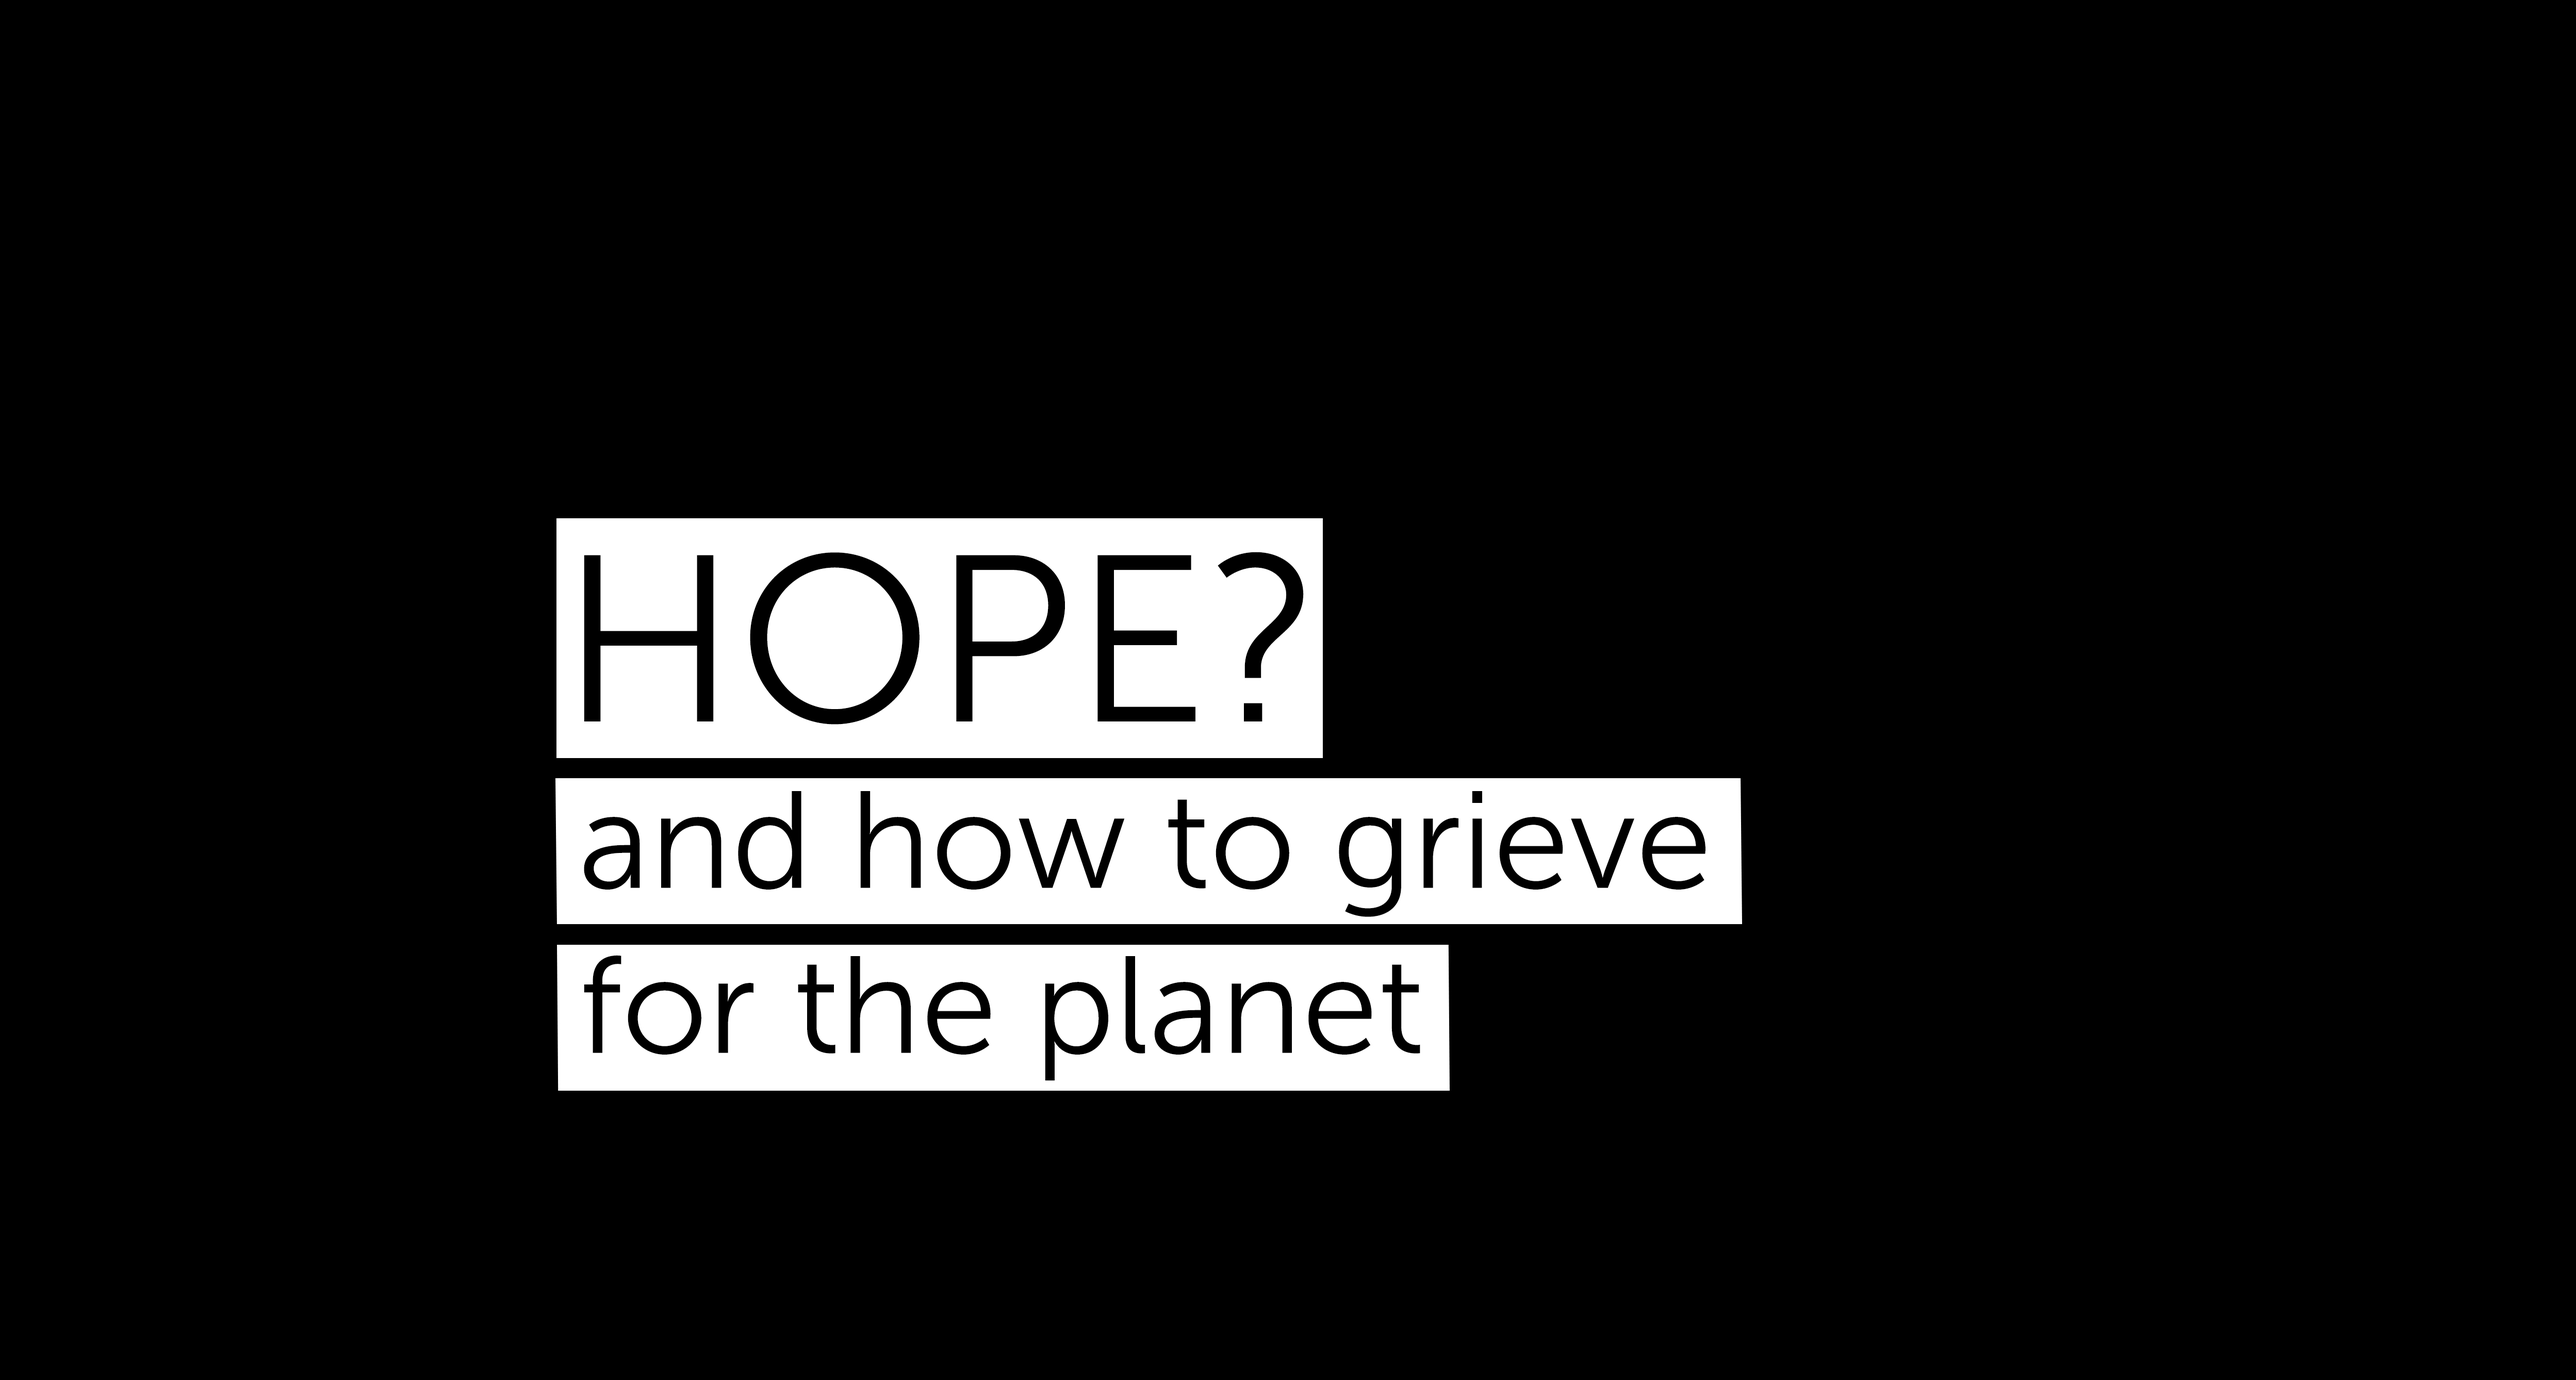
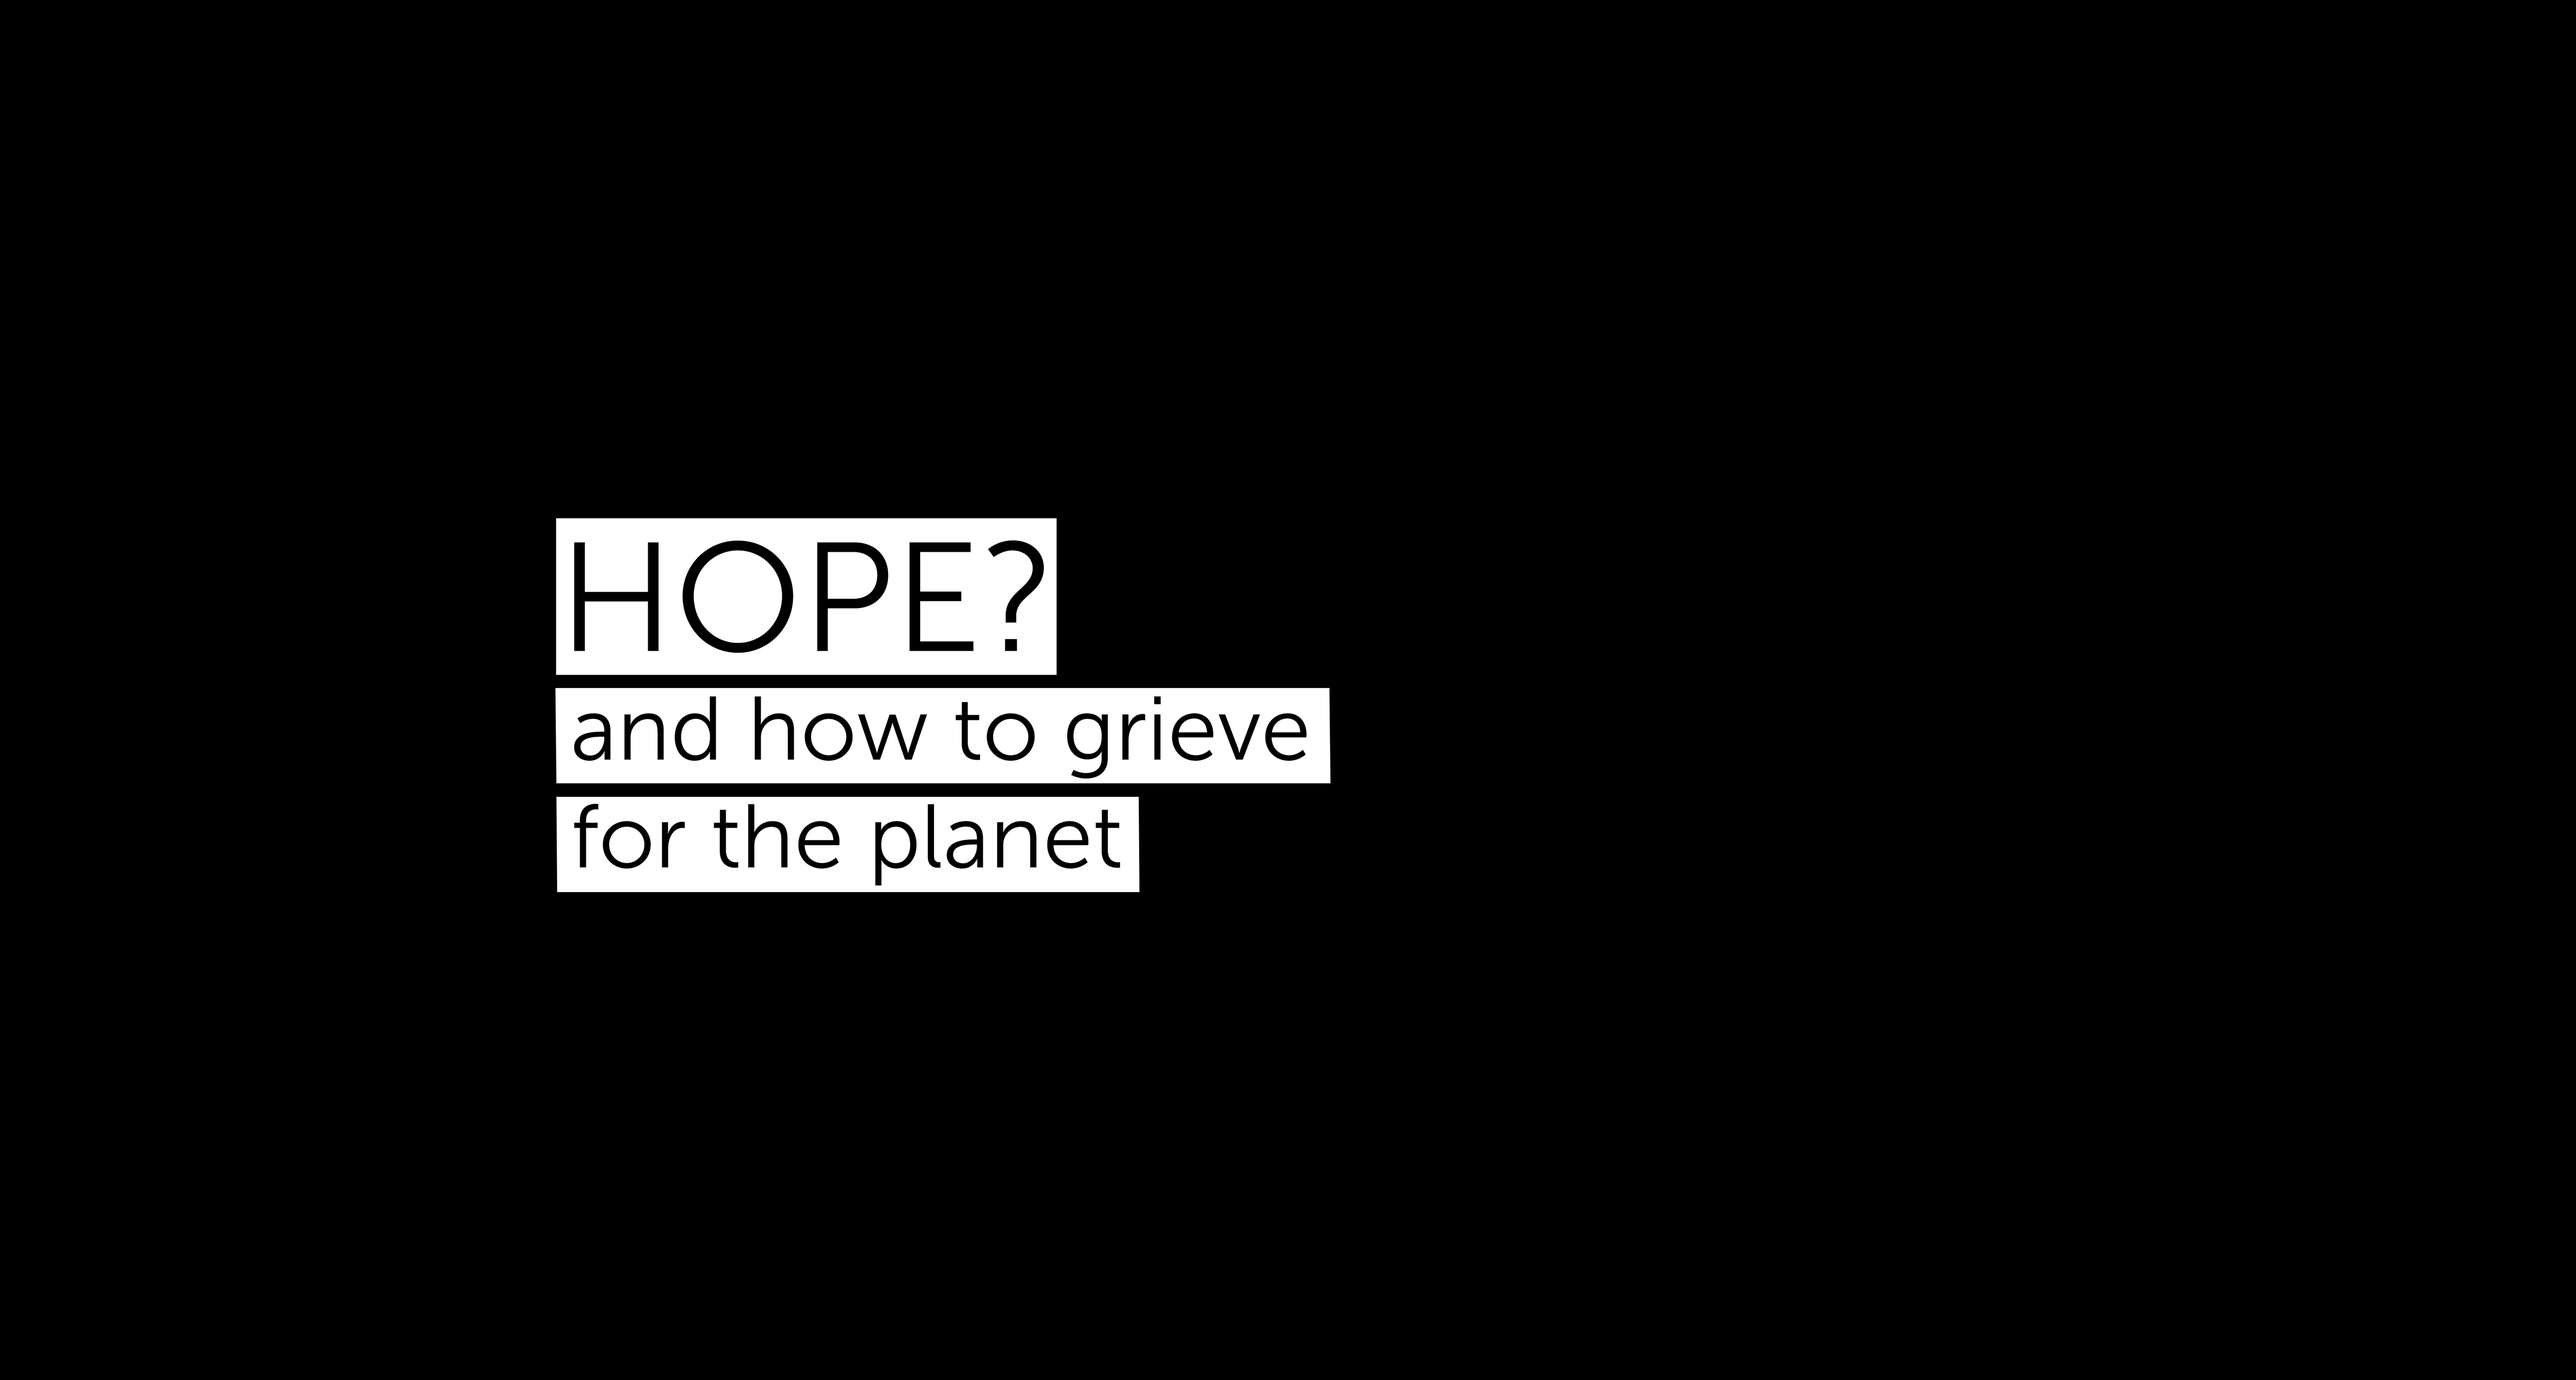
update

Changed region(s): [[0.2186, 0.3722, 0.6871, 0.8064]]

diff --git a/index.html b/index.html
@@ -40,8 +40,10 @@
             <div class="container px-4 px-lg-5 d-flex h-100 align-items-center justify-content-end">
                 <div class="d-flex justify-content-center">
                     <div class="text-center">
+                        <!-- Old heading...
                         <h1 class="mx-auto my-0 text-uppercase" style="font-family:'Museo Slab',sans-serif;font-weight: 600;">Hope?</h1><br>
                         <h2 class="text-white mb-4" style="font-family:'Museo Slab',sans-serif;font-size:1.75rem;font-weight: 200;"> and how to grieve<br> for the planet</h2>
+                        -->
                     </div>
                 </div>
             </div>
